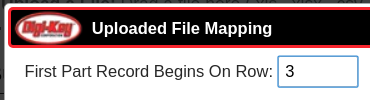
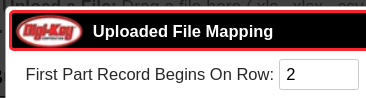
Fix mistakes

diff --git a/docs/order-pcb-components.md b/docs/order-pcb-components.md
@@ -6,7 +6,7 @@ This document describes how to order the electrical components for the Apothecar
 
 Cost is USD $30 - $35 + shipping from Digi-Key and takes one to two days to ship within North America.
 
-Includes parts for one Microlab PCBs. If you'd like to assemble more, multiply the quanities in the spreadsheet.
+Includes parts for one Microlab PCB. If you'd like to assemble more, multiply the quantities in the spreadsheet.
 
 ## Steps
 
@@ -28,11 +28,11 @@ Once logged in, view your shopping cart on the top right.
 
 Upload the microlab-BOM.xls file to the shopping cart.
 
-Set the first part record to row three:
+Set the first part record to row two:
 
 ![Digi-Key first record](media/digikey-first-record.png)
 
-Scroll to the right and assign the last three columns of the table to "Digi-Key Part Number", "Customer Reference" and "Quanitity":
+Scroll to the right and assign the last three columns of the table to "Digi-Key Part Number", "Customer Reference" and "Quantity":
 
 ![Digi-Key column options](media/digikey-column-options.png)
 
